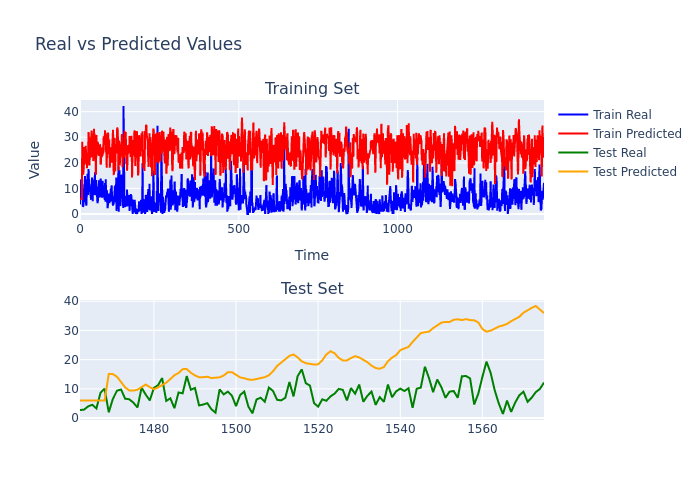
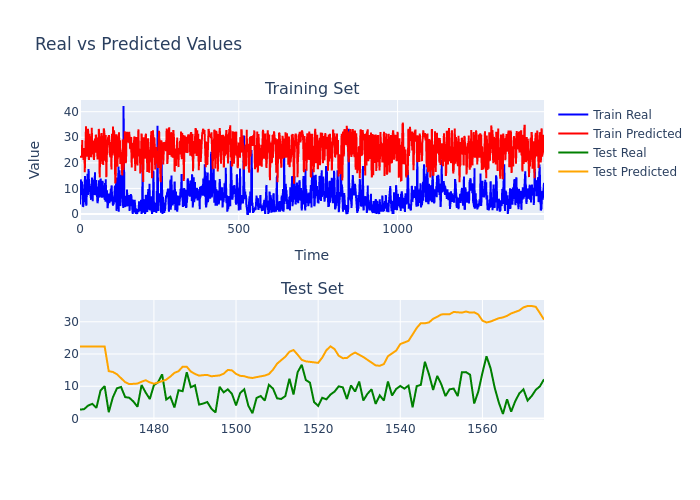
update

diff --git a/LSTM-Temperature-Forecast/main.py b/LSTM-Temperature-Forecast/main.py
@@ -12,7 +12,7 @@ from utils import add_features, average_predictions, create_time_dataset
 from sklearn.preprocessing import MinMaxScaler, RobustScaler
 from torch.utils.data import DataLoader
 from torch.utils.data import TensorDataset
-from model import BiLSTM
+from model import BiLSTM, LinearModel
 from train import train
 
 device = torch.device("cuda:0" if torch.cuda.is_available() else "cpu")
@@ -69,13 +69,15 @@ if __name__ == "__main__":
 
     # 选择特征列
     feature_index = 0  # 选取meantemp作为单变量时间序列
-    train_feature = train_variables[:, 0].reshape(-1, 1)
-    test_feature = test_variables[:, 0].reshape(-1, 1)
+    train_feature = train_variables[:, feature_index].reshape(-1, 1)
+    test_feature = test_variables[:, feature_index].reshape(-1, 1)
     concat_feature = np.concatenate((train_feature, test_feature), axis=0)
-    print("Feature Shape: ", train_feature.shape, test_feature.shape, concat_feature.shape)
+    print(
+        "Feature Shape: ", train_feature.shape, test_feature.shape, concat_feature.shape
+    )
 
     # 归一化
-    scaler = MinMaxScaler()
+    scaler = MinMaxScaler(feature_range=(-1, 1))
     # scaler = RobustScaler()
     # scaler = StandardScaler()
     train_feature = scaler.fit_transform(train_feature)
@@ -85,11 +87,12 @@ if __name__ == "__main__":
     # 构建数据集
     lookback = 7  # 回溯时间步
     forecast_lengths = 2  # 预测长度
+    step = 1 # 步长
     train_data, train_target = create_time_dataset(
-        train_feature, lookback, forecast_lengths, device
+        train_feature, lookback, forecast_lengths, device, step
     )
     test_data, test_target = create_time_dataset(
-        test_feature, lookback, forecast_lengths, device
+        test_feature, lookback, forecast_lengths, device, step
     )
 
     print("Train Dataset shape: ", train_data.shape, train_target.shape)
@@ -106,13 +109,20 @@ if __name__ == "__main__":
     model = BiLSTM(
         input_size=lookback, hidden_size=256, num_layers=2, output_size=forecast_lengths
     ).to(device)
+    # model = LSTM(
+    #     input_size=lookback, hidden_size=256, num_layers=2, output_size=forecast_lengths
+    # ).to(device)
+    # model = LinearModel(
+    #     input_size=lookback, hidden_size=256, output_size=forecast_lengths
+    # ).to(device)
     optimizer = optim.Adam(model.parameters(), lr=1e-3, weight_decay=1e-5)
+    # optimizer = optim.SGD(model.parameters(), lr=1e-2, weight_decay=1e-5)
     scheduler = ReduceLROnPlateau(optimizer, "min", patience=10)
     loss = nn.MSELoss()
 
     # 训练模型
     best_train_preds, best_test_preds = train(
-        model, train_loader, test_loader, loss, optimizer, scheduler, n_epochs=200
+        model, train_loader, test_loader, loss, optimizer, scheduler, n_epochs=100
     )
 
     # print("Best Test Preds: ", best_test_preds)

diff --git a/LSTM-Temperature-Forecast/model.py b/LSTM-Temperature-Forecast/model.py
@@ -19,13 +19,56 @@ class BiLSTM(nn.Module):
         )
         self.dropout = nn.Dropout(0.2)
         self.linear1 = nn.Linear(self.hidden_size * 2, 64)
+        self.relu = nn.ReLU()
         self.linear2 = nn.Linear(64, 32)
         self.out_linear = nn.Linear(32, self.output_size)
 
     def forward(self, x):
         x, _ = self.bilstm(x)
         x = self.dropout(x)
-        x = self.linear1(x)
+        x = self.relu(self.linear1(x))
         x = self.linear2(x)
         x = self.out_linear(x)
         return x
+
+
+class LSTM(nn.Module):
+    def __init__(self, input_size, hidden_size, num_layers, output_size):
+        super(LSTM, self).__init__()
+        self.input_size = input_size
+        self.hidden_size = hidden_size
+        self.num_layers = num_layers
+        self.output_size = output_size
+
+        self.lstm = nn.LSTM(
+            input_size=self.input_size,
+            num_layers=self.num_layers,
+            hidden_size=self.hidden_size,
+            batch_first=True,
+            bidirectional=False,
+        )
+        self.dropout = nn.Dropout(0.2)
+        self.linear1 = nn.Linear(self.hidden_size * 1, 64)
+        self.relu = nn.ReLU()
+        self.linear2 = nn.Linear(64, 32)
+        self.out_linear = nn.Linear(32, self.output_size)
+
+    def forward(self, x):
+        x, _ = self.lstm(x)
+        x = self.dropout(x)
+        x = self.relu(self.linear1(x))
+        x = self.linear2(x)
+        x = self.out_linear(x)
+        return x
+
+
+class LinearModel(nn.Module):
+    def __init__(self, input_size, hidden_size ,output_size):
+        super(LinearModel, self).__init__()
+        self.linear1 = nn.Linear(input_size, output_size)
+        self.linear2 = nn.Linear(output_size, hidden_size)
+        self.relu = nn.ReLU()
+        self.linear3 = nn.Linear(hidden_size, output_size)
+
+    def forward(self, x):
+        return self.linear3(self.relu(self.linear2(self.relu(self.linear1(x)))))
